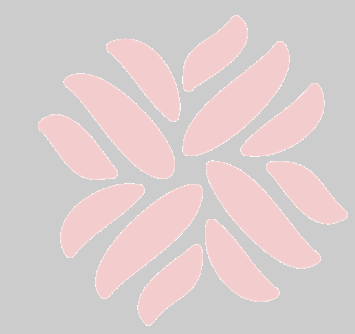
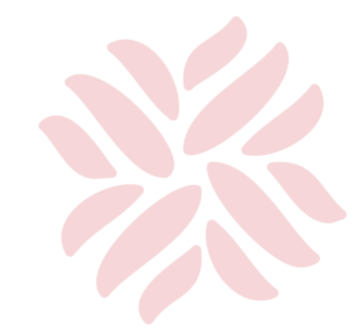
signleeufile

diff --git a/public/assets/css/mycustomstyle.css b/public/assets/css/mycustomstyle.css
@@ -1,14 +1,17 @@
-.width30{
-    width:30%;
+.width30 {
+    width: 30%;
 }
-.float_right{
-    float:  right !important;
+
+.float_right {
+    float: right !important;
 }
-.custom_img{
-    width:150px;
+
+.custom_img {
+    width: 150px;
     height: 150px;
 }
-.card_title_center{
+
+.card_title_center {
     width: 100%;
     text-align: center !important;
 }

diff --git a/database/migrations/2024_03_18_090010_individuals_table.php b/database/migrations/2024_03_18_090010_individuals_table.php
@@ -14,20 +14,23 @@ return new class extends Migration
      */
     public function up()
     {
-        Schema::create('eu_files', function (Blueprint $table) {
+        Schema::create('individuals', function (Blueprint $table) {
             $table->engine = 'InnoDB';
 
-            // $table->bigInteger('eu_no')->autoIncrement()->startingValue(999);
-            $table->bigIncrements('eu_no');
+            $table->bigIncrements('ind_id');
 
-            $table->string('Open_File_Location')->nullable();
-            $table->string('Referral_From')->nullable();
-            $table->string('Referral_no')->nullable();
-            $table->string('area')->nullable();
-            $table->text('address')->nullable();
+            $table->string('name')->nullable();
+            $table->string('personal_info')->nullable();
+            $table->string('education_info')->nullable();
+            $table->string('work_info')->nullable();
 
-            $table->foreignId('city_id')
-                ->constrained('cities')
+            $table->unsignedBigInteger('eu_no_id');
+            $table->foreign('eu_no_id')->references('eu_no')->on('eu_files');
+
+
+
+            $table->foreignId('country_id')
+                ->constrained('countries')
                 ->onUpdate('cascade')
                 ->onDelete('restrict');
 
@@ -40,7 +43,7 @@ return new class extends Migration
             $table->timestamps();
         });
 
-        DB::statement("ALTER TABLE eu_files AUTO_INCREMENT = 999;");
+        DB::statement("ALTER TABLE individuals AUTO_INCREMENT = 999;");
     }
 
     /**
@@ -50,6 +53,6 @@ return new class extends Migration
      */
     public function down()
     {
-        Schema::dropIfExists('eu_file');
+        Schema::dropIfExists('individuals');
     }
 };

diff --git a/app/Http/Controllers/eu/social/EuFileController.php b/app/Http/Controllers/eu/social/EuFileController.php
@@ -7,10 +7,11 @@ use Illuminate\Http\Request;
 use App\Models\CityModel;
 use App\Models\CountryModel;
 use App\Models\EuFileModel;
+use App\Models\IndividualModel;
 
 class EuFileController extends Controller
 {
-    //
+    // EU FIles List
     public function show()
     {
         $euFiles = EuFileModel::with('created_by', 'city')->orderBy('eu_no', 'desc')->paginate(30);
@@ -18,5 +19,24 @@ class EuFileController extends Controller
         $countries = CountryModel::orderBy('name', 'asc')->get();
 
         return view('eu.social.eu-files-show', compact('euFiles', 'cities', 'countries'));
+    }
+
+
+    // Single EU FIle Content ///////////////////////////////////
+
+    // public function singleEuFileShow()
+    // {
+    //     $euFiles = EuFileModel::with('created_by', 'city')->orderBy('eu_no', 'desc')->paginate(30);
+    //     // $countries = CountryModel::orderBy('name', 'asc')->get();
+    //     $inds = IndividualModel::with('created_by', 'nationality')->orderBy('ind_id', 'asd')->paginate(30);
+
+    //     return view('eu.social.eu-files-show', compact('euFiles', 'cities', 'countries'));
+    // }
+
+    public function singleEuFileShow(EuFileModel $eufile)
+    {
+        $inds = IndividualModel::with('created_by', 'nationality')->where('eu_no_id', $eufile->id)->orderBy('ind_id', 'asd')->paginate(30);
+
+        return view('admin.master_invoice.index', ['data' => $master_invoices, 'customer' => $customer]);
     }
 }

diff --git a/resources/views/layouts/admin.blade.php b/resources/views/layouts/admin.blade.php
@@ -21,9 +21,10 @@ scratch. This page gets rid of all links and provides the needed markup only.
     <link rel="stylesheet" href="{{ asset('assets/fonts/SansPro/SansPro.min.css') }}">
     <link rel="stylesheet" href="{{ asset('assets/css/bootstrap_rtl-v4.2.1/bootstrap.min.css') }}">
     <link rel="stylesheet" href="{{ asset('assets/css/bootstrap_rtl-v4.2.1/custom_rtl.css') }}">
-    <link rel="stylesheet" href="{{ asset('assets/css/mycustomstyle.css') }}">
 
     <link rel="stylesheet" href="https://cdnjs.cloudflare.com/ajax/libs/font-awesome/4.7.0/css/font-awesome.min.css">
+    <link rel="stylesheet" href="{{ asset('assets/css/mycustomstyle.css') }}">
+
     <style>
         .full-body-background {
             position: relative;
@@ -84,8 +85,7 @@ scratch. This page gets rid of all links and provides the needed markup only.
         @include('eu.parts.sidebar')
 
         <!-- Content Wrapper. Contains page content -->
-        <div class="content-wrapper"
-            style="background-image: url(@yield('backgroundimg'));min-height:600px;background-size:40%;background-repeat: repeat;">
+        <div class="content-wrapper" style="background-image: url(@yield('backgroundimg'))">
             <!-- Content Header (Page header) -->
             <div class="content-header">
                 <div class="container-fluid">

diff --git a/resources/views/eu/social/eu-file-indetail.blade.php b/resources/views/eu/social/eu-file-indetail.blade.php
@@ -16,6 +16,7 @@
 @endsection
 
 @section('contentHeaderActive')
+    EU File no ########
 @endsection
 
 {{-- ################################## Content ################## --}}
@@ -37,7 +38,7 @@
 @section('content')
     <div class="card">
         <div class="card-header">
-            <h3 class="card-title">DataTable with minimal features & hover style</h3>
+            <h3 class="card-title">EU no #######</h3>
         </div>
         <!-- /.card-header -->
         <div class="card-body">
@@ -45,12 +46,12 @@
                 <thead>
                     <tr>
                         <th>EU NO</th>
-                        <th>Open Location</th>
-                        <th>Referral_From(s)</th>
-                        <th>Referral_no</th>
-                        <th>city</th>
-                        <th>area</th>
-                        <th>address</th>
+                        <th>indvidual id</th>
+                        <th>name</th>
+                        <th>personal_info</th>
+                        <th>education_info</th>
+                        <th>work_info</th>
+                        <th>Nationality</th>
                         <th>Action</th>
                     </tr>
                 </thead>

diff --git a/database/seeders/IndividualsSeeder.php b/database/seeders/IndividualsSeeder.php
@@ -1,0 +1,36 @@
+<?php
+
+namespace Database\Seeders;
+
+use Illuminate\Database\Console\Seeds\WithoutModelEvents;
+use Illuminate\Database\Seeder;
+use Illuminate\Support\Facades\DB;
+
+class IndividualsSeeder extends Seeder
+{
+    /**
+     * Run the database seeds.
+     *
+     * @return void
+     */
+    public function run()
+    {
+        //
+        $ind = [
+            [
+                'ind_id' => 999,
+                'name' => 'mohamed Ahmed',
+                'personal_info' => 'personal info',
+                'education_info' => 'school school',
+                'work_info' => 'work work',
+                'eu_no_id' => 999,
+                'country_id' => 1,
+                'created_by' => 1,
+                'created_at' => now(),
+                'updated_at' => now(),
+
+            ],
+        ];
+        DB::table('individuals')->insert($ind);
+    }
+}

diff --git a/app/Models/IndividualModel.php b/app/Models/IndividualModel.php
@@ -1,0 +1,28 @@
+<?php
+
+namespace App\Models;
+
+use Illuminate\Database\Eloquent\Factories\HasFactory;
+use Illuminate\Database\Eloquent\Model;
+
+class IndividualModel extends Model
+{
+    use HasFactory;
+
+    protected $table = 'individuals';
+    public $timestamps = true;
+    protected $fillable = [
+        'ind_id', 'name', 'personal_info', 'education_info', 'work_info', 'eu_no_id', 'country_id', 'created_by', 'created_at', 'updated_at'
+    ];
+
+
+    public function nationality()
+    {
+        return $this->belongsTo(CountryModel::class, 'country_id');
+    }
+
+    public function created_by()
+    {
+        return $this->belongsTo(Admin::class, 'created_by');
+    }
+}

diff --git a/routes/admin.php b/routes/admin.php
@@ -47,7 +47,8 @@ Route::group(['namespace' => 'eu', 'prefix' => 'eu', 'middleware' => ['auth:admi
 Route::group(['namespace' => 'eu', 'prefix' => 'eu', 'middleware' => ['auth:admin', 'checkUserGroup:social']], function () {
     Route::get('index', [homeController::class, 'index'])->name('eu.homeShow');
 
-    Route::get('eufilesshow', [EuFileController::class, 'show'])->name('eu.filesshow');
+    Route::get('eu-files-list', [EuFileController::class, 'show'])->name('eu.filesshow');
+    Route::get('single-eu-file-show', [EuFileController::class, 'show'])->name('eu.single-eu-file-show');
 });
 
 

diff --git a/database/seeders/DatabaseSeeder.php b/database/seeders/DatabaseSeeder.php
@@ -9,6 +9,7 @@ use App\Models\CityModel;
 use App\Models\CountryModel;
 use App\Models\EuFile;
 use App\Models\EuFileModel;
+use App\Models\IndividualModel;
 use Illuminate\Database\Seeder;
 
 class DatabaseSeeder extends Seeder
@@ -40,5 +41,8 @@ class DatabaseSeeder extends Seeder
 
         if (!optional(EuFileModel::first())->exists())
             $this->call(EuFileSeeder::class);
+
+        if (!optional(IndividualModel::first())->exists())
+            $this->call(IndividualsSeeder::class);
     }
 }

diff --git a/resources/views/eu/new_eu_file.blade.php b/resources/views/eu/new_eu_file.blade.php
@@ -17,7 +17,7 @@
 
 {{-- ################################## Content ################## --}}
 @section('backgroundimg')
-    {{-- {{ asset('assets/images/prints.png') }} --}}
+    {{ asset('assets/images/avatar.png') }}
 @endsection
 
 @section('content')
